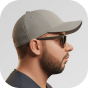
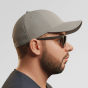
16

diff --git a/src/styles/components.css b/src/styles/components.css
@@ -13,7 +13,7 @@
   --avatar-big: 88px;
   --avatar-big-radius: 20px;
   --avatar-small: 64px;
-  --avatar-small-radius: 8.878px;
+  --avatar-small-radius: calc(var(--avatar-big-radius) * 64 / 88);
 
   --btn-behance-hover: #0055ff;
   --btn-dribbble-hover: #ea4c89;
@@ -29,6 +29,7 @@
   overflow: hidden;
   background: #eaeaea;
   flex-shrink: 0;
+  isolation: isolate;
 }
 
 .avatar--big {
@@ -44,10 +45,12 @@
 }
 
 .avatar img {
+  display: block;
   width: 100%;
   height: 100%;
   object-fit: cover;
   object-position: center top;
+  border-radius: inherit;
 }
 
 .avatar[data-avatar-hover="desktop"]::after {

diff --git a/index.html b/index.html
@@ -155,7 +155,7 @@
               <span class="hero__title-primary"
                 >Продуктовый / UX дизайнер.</span
               ><br /><span class="hero__title-muted"
-                >Проектирую интерфейсы.<br />Фокус — SaaS и Ecom.</span
+                >Проектирую интерфейсы.<br />Фокус — SaaS и финтех.</span
               >
             </h1>
           </header>

diff --git a/src/styles/main.css b/src/styles/main.css
@@ -362,9 +362,11 @@ img {
   transition: transform 0.7s ease;
 }
 
-.case-card__cover-img:hover,
-.case-card__cover-img--shot:hover {
-  transform: scale(1.1);
+@media (hover: hover) and (pointer: fine) {
+  .case-card__cover-img:hover,
+  .case-card__cover-img--shot:hover {
+    transform: scale(1.1);
+  }
 }
 
 .case-card__body {
